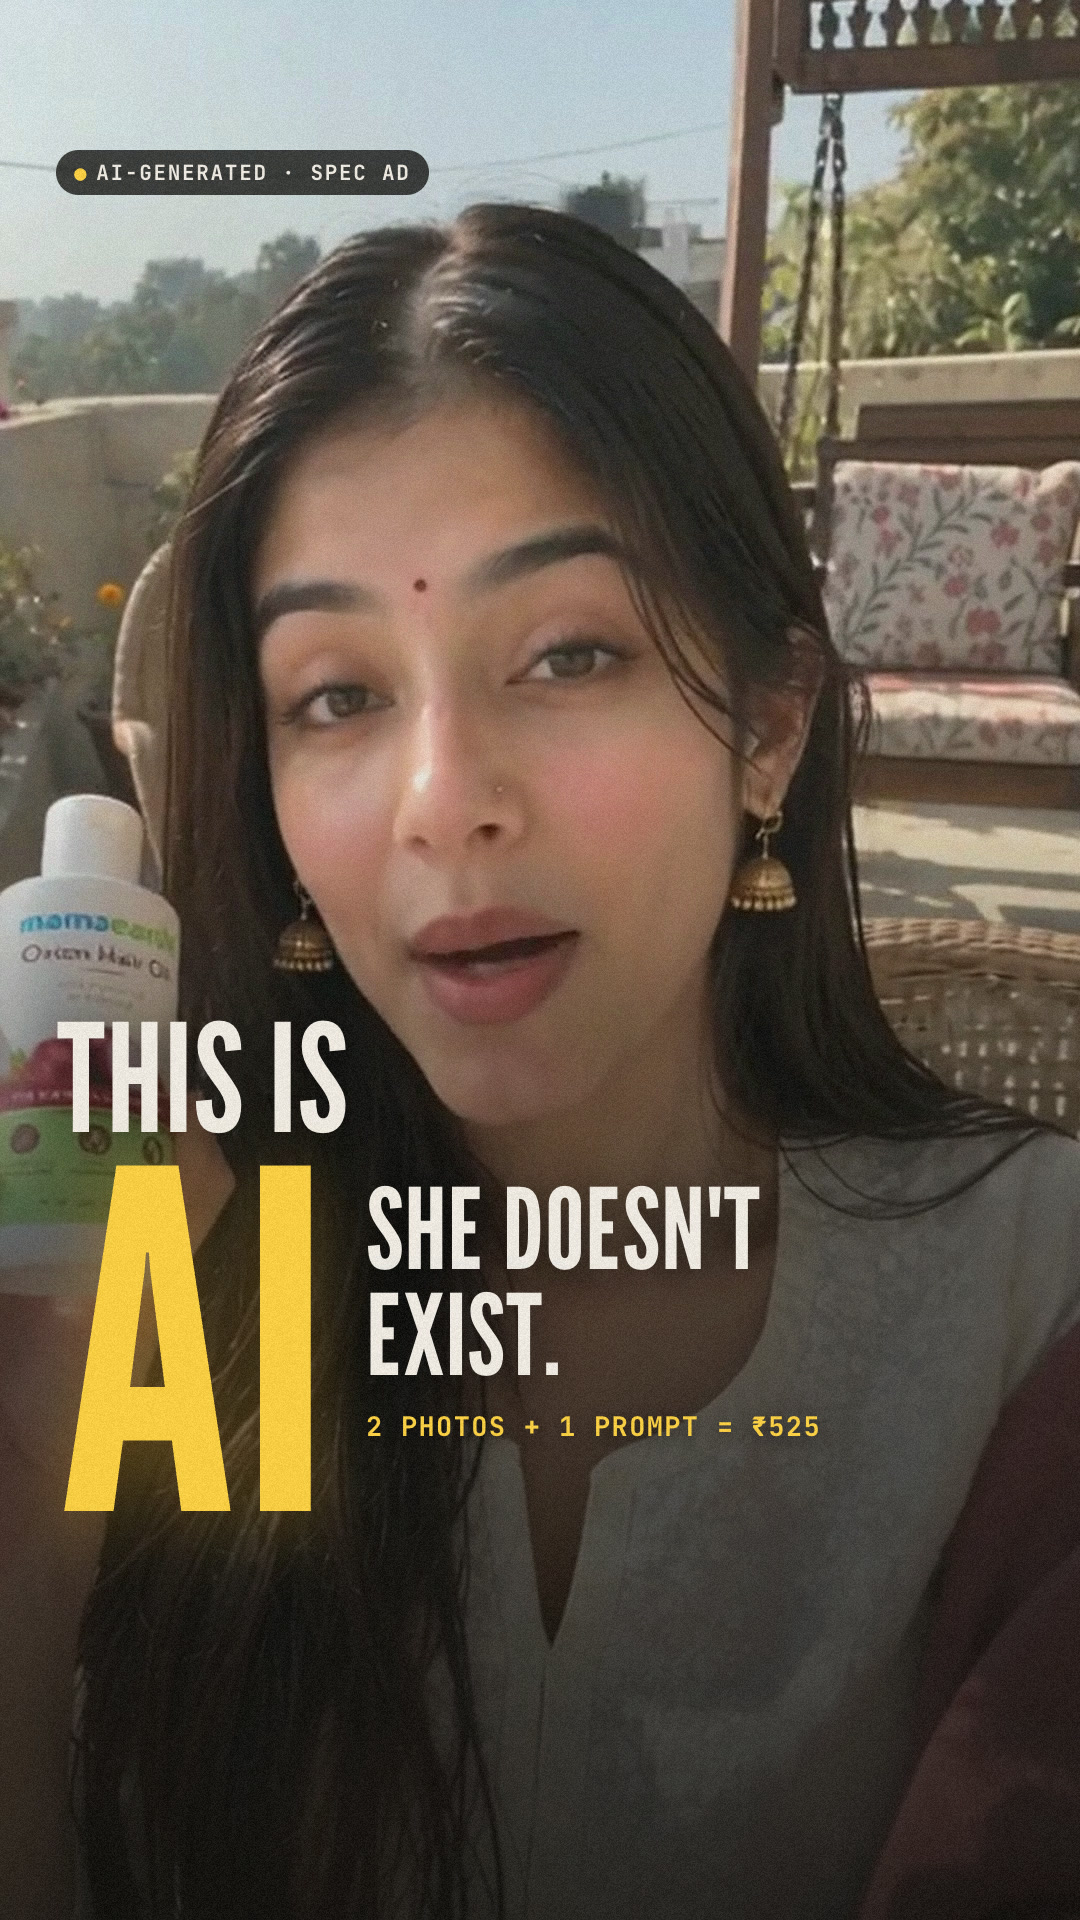
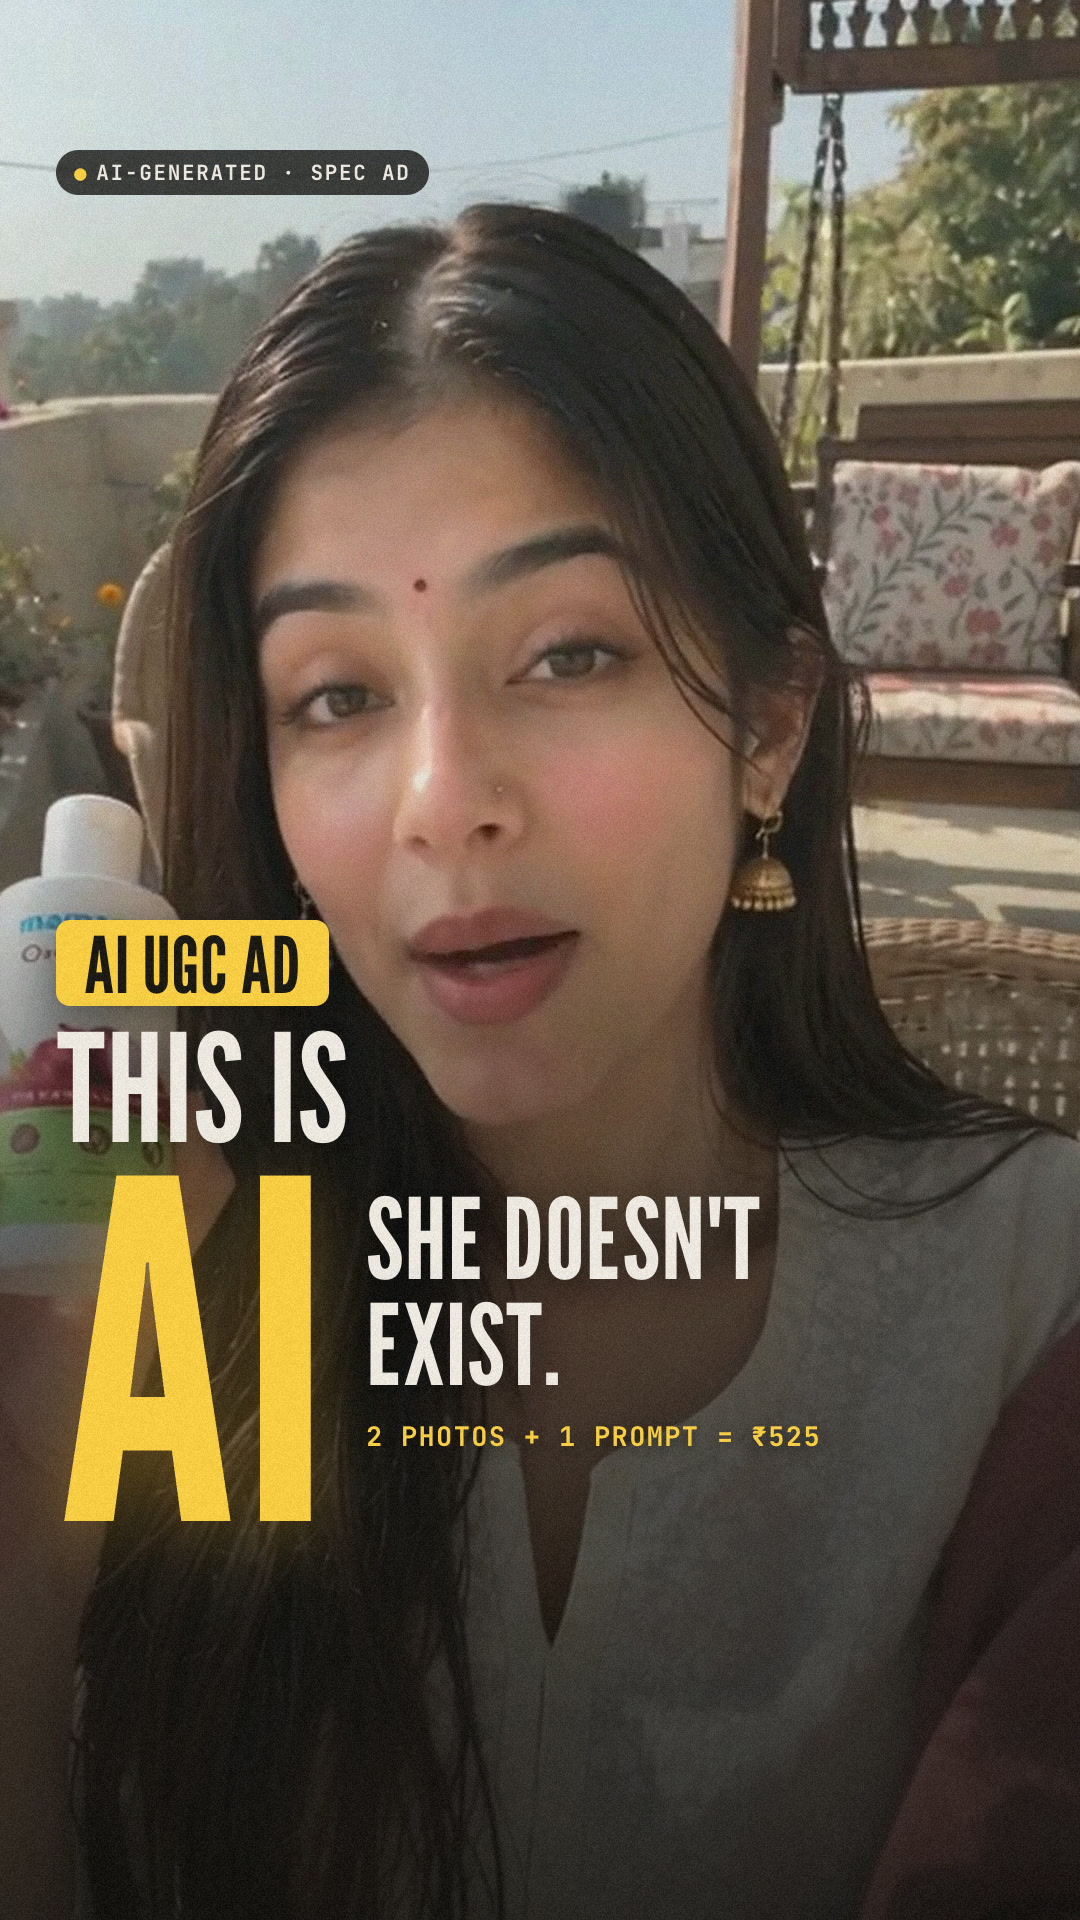
Reel 018: link the live reel, update the cover

diff --git a/reel-018-ai-ugc-ad/README.md b/reel-018-ai-ugc-ad/README.md
@@ -23,4 +23,4 @@ A 30-second AI UGC ad (a woman recommending a hair oil on a South Delhi rooftop)
 ## Notes
 - The product photo used for the ad is not included: bring your own, and only use a real brand's name or pack with permission.
 - Model results vary with the references. These are the exact texts used for this ad, in my wording; adapt freely.
-- Posted on [@cinematic_llm](https://www.instagram.com/cinematic_llm/).
+- The reel: [instagram.com/cinematic_llm/reel/DePiQb8BNrA](https://www.instagram.com/cinematic_llm/reel/DePiQb8BNrA/) on [@cinematic_llm](https://www.instagram.com/cinematic_llm/).
